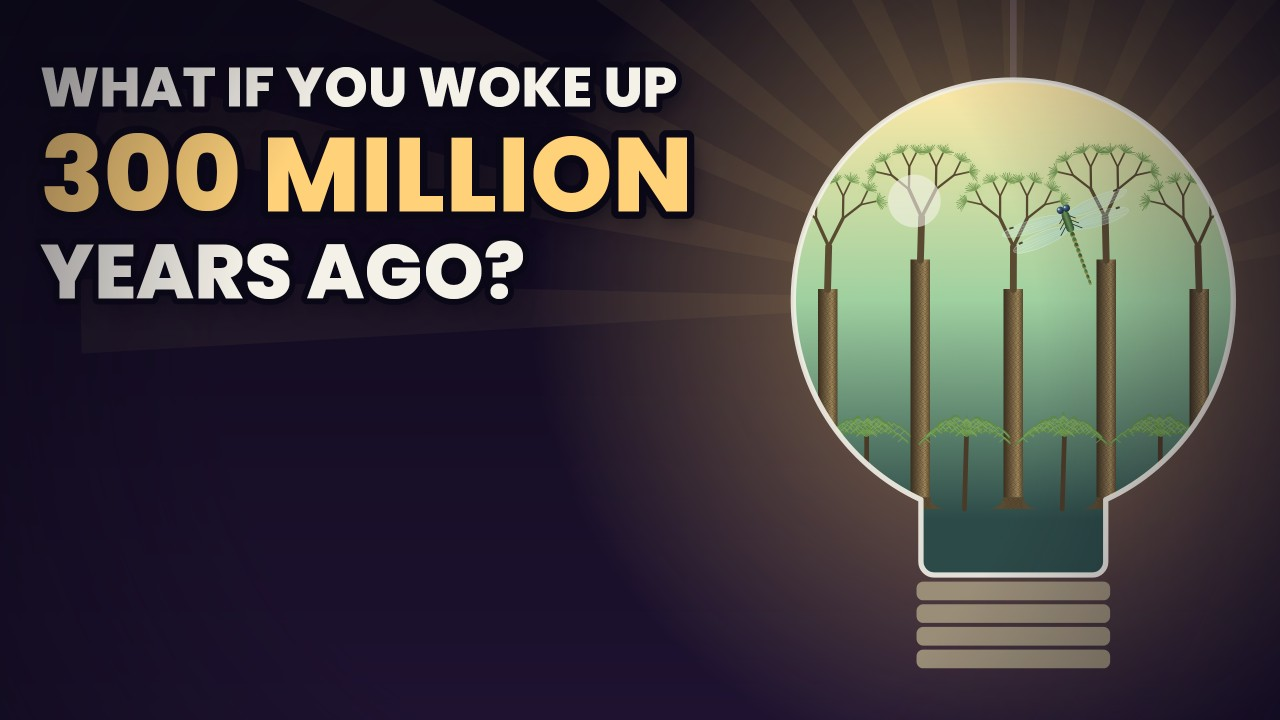
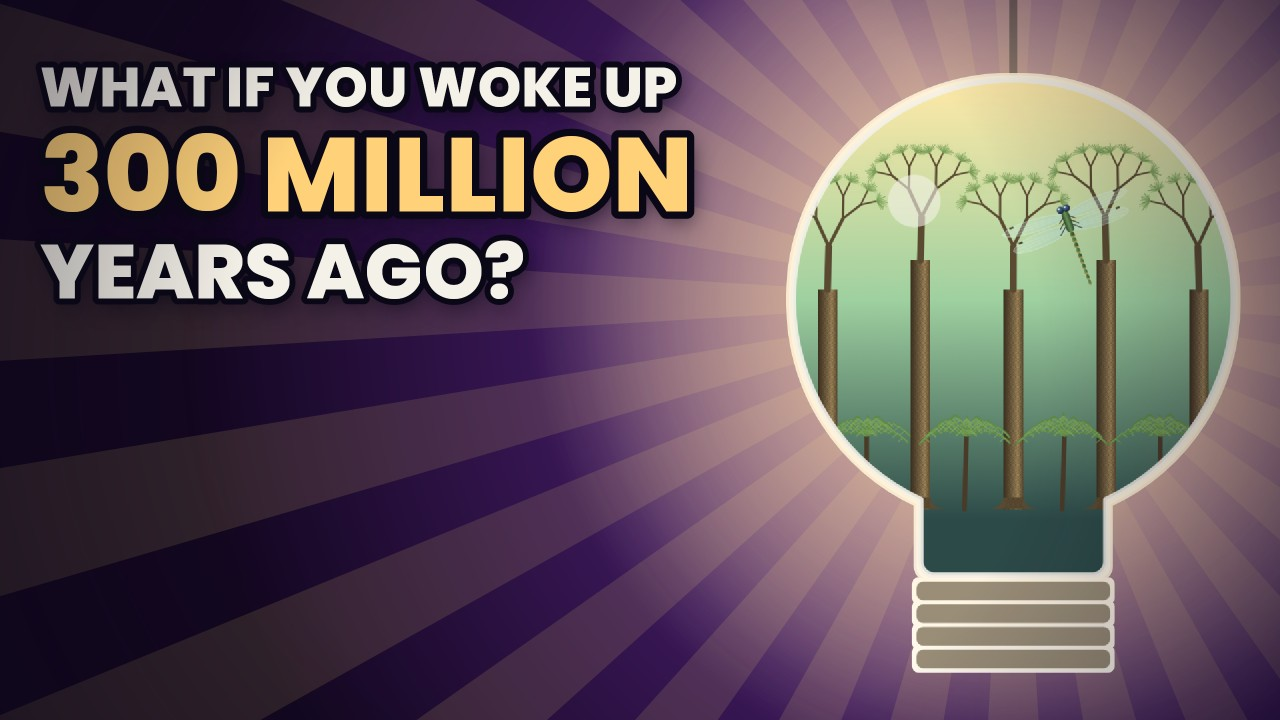
Thumbnails v3: thumbnail-style bold backgrounds, light burst, sticker outlines
Claude-Session: https://claude.ai/code/session_01WCp4uQYTUmYEbUCUwohxpo

diff --git a/runs/woke-up-300-million-years-ago/video/thumbs3.py b/runs/woke-up-300-million-years-ago/video/thumbs3.py
@@ -1,0 +1,98 @@
+"""Thumbnails v3: thumbnail-style backgrounds (bold gradient, light burst, sticker outline). No KR; text = title."""
+import os, math, skia
+from art import *  # noqa
+from art import W, H
+import thumbs2 as T2
+OUT = T2.OUT
+T0 = 1.3
+
+
+def radial_bg(c, cx, cy, inner, outer, r=1300):
+    sh = skia.GradientShader.MakeRadial(skia.Point(cx, cy), r, [col(inner), col(outer)], [0.0, 1.0])
+    c.drawRect(skia.Rect(0, 0, W, H), skia.Paint(Shader=sh))
+
+
+def burst(c, cx, cy, color, n=24, a=0.18, L=1800):
+    for i in range(n):
+        ang = 2 * math.pi * i / n
+        p = skia.Path(); p.moveTo(cx, cy)
+        p.lineTo(cx + math.cos(ang - 0.06) * L, cy + math.sin(ang - 0.06) * L)
+        p.lineTo(cx + math.cos(ang + 0.06) * L, cy + math.sin(ang + 0.06) * L); p.close()
+        c.drawPath(p, paint(color, a))
+
+
+def sticker(c, draw, outline="white", r=9, glow_col=None):
+    """draw() paints the hero on a transparent layer; we add a solid outline + optional glow behind it."""
+    S = skia.Surface(W, H); cc = S.getCanvas(); cc.clear(skia.Color(0, 0, 0, 0)); draw(cc)
+    img = S.makeImageSnapshot()
+    if glow_col:
+        p = skia.Paint(); p.setImageFilter(skia.ImageFilters.Blur(40, 40, skia.TileMode.kDecal, skia.ImageFilters.ColorFilter(
+            skia.ColorFilters.Blend(col(glow_col), skia.BlendMode.kSrcIn), None)))
+        p.setAlphaf(0.9); c.drawImage(img, 0, 0, skia.SamplingOptions(), p)
+    p = skia.Paint(); p.setImageFilter(skia.ImageFilters.Dilate(r, r, skia.ImageFilters.ColorFilter(
+        skia.ColorFilters.Blend(col(outline), skia.BlendMode.kSrcIn), None)))
+    c.drawImage(img, 0, 0, skia.SamplingOptions(), p)
+    c.drawImage(img, 0, 0)
+
+
+def tree_silhouettes(c, color, a=1.0, side_only=True):
+    for i, (x, h, w) in enumerate([(-30, 980, 120), (150, 820, 80), (1810, 1000, 130), (1650, 760, 70)]):
+        p = paint(color, a)
+        c.drawRect(skia.Rect(x - w / 2, H - h, x + w / 2, H), p)
+        cx, top = x, H - h
+        for k in range(9):
+            ang = math.pi / 2 + (k - 4) * 0.28
+            c.drawLine(cx, top, cx + math.cos(ang) * 230, top - math.sin(ang) * 170, paint(color, a, stroke=16))
+
+
+def thumb_a(c):
+    """Giant dragonfly, bright burst, cool teal bg vs warm gold subject glow."""
+    radial_bg(c, 1450, 430, "#2FB7A5", "#06202A", 1250)
+    burst(c, 1450, 430, "#E9FFF6", 26, 0.10)
+    glow(c, 1450, 430, 520, "#FFF3C4", 0.55)
+    tree_silhouettes(c, "#04161C", 0.9)
+    sticker(c, lambda cc: dragonfly(cc, 1450, 360, 1.6, 0.37, ang=-6), "white", 3, "gold")
+    sticker(c, lambda cc: T2.person(cc, 1170, 1060, 330, "stand", "#04161C"), "white", 5)
+    T2.title_block(c)
+    vignette(c, W, H, 0.45)
+
+
+def thumb_b(c):
+    """Movie-poster scale: tiny person, towering black trees, orange sunset burst."""
+    radial_bg(c, 1450, 520, "#FFB347", "#5A0F2E", 1300)
+    burst(c, 1450, 520, "#FFE8B0", 22, 0.12)
+    glow(c, 1450, 560, 360, "#FFF1C8", 0.8)
+    for i, (x, h, w) in enumerate([(1030, 700, 60), (1240, 560, 40), (1720, 720, 70), (1890, 600, 50), (1560, 470, 28)]):
+        lycopsid(c, x, H + 5, h, w, T0, i + 30)
+        c.drawRect(skia.Rect(x - w * 1.4, 0, x + w * 1.4, H), paint("#1A0710", 0.0))
+    c.drawRect(skia.Rect(860, 0, W, H), paint("#1A0710", 0.0))
+    # turn the trees into silhouettes by overpainting them dark (keep the bright sky)
+    S = skia.Surface(W, H); cc = S.getCanvas(); cc.clear(skia.Color(0, 0, 0, 0))
+    for i, (x, h, w) in enumerate([(1030, 700, 60), (1240, 560, 40), (1720, 720, 70), (1890, 600, 50), (1560, 470, 28)]):
+        lycopsid(cc, x, H + 5, h, w, T0, i + 30)
+    p = skia.Paint(); p.setColorFilter(skia.ColorFilters.Blend(col("#1A0710"), skia.BlendMode.kSrcIn))
+    c.drawImage(S.makeImageSnapshot(), 0, 0, skia.SamplingOptions(), p)
+    c.drawRect(skia.Rect(0, 990, W, H), paint("#1A0710"))
+    sticker(c, lambda cc: dragonfly(cc, 1450, 300, 1.1, 0.4, ang=8), "white", 3, "gold")
+    sticker(c, lambda cc: T2.person(cc, 1450, 995, 170, "stand", "#1A0710"), "#FFE8B0", 4)
+    T2.title_block(c)
+    vignette(c, W, H, 0.4)
+
+
+def thumb_c(c):
+    """Glowing bulb with the forest inside, purple bg + yellow burst."""
+    radial_bg(c, 1520, 450, "#6A2C9A", "#12061F", 1250)
+    burst(c, 1520, 450, "#FFE27A", 28, 0.13)
+    glow(c, 1520, 450, 650, "#FFD27A", 0.55)
+    c.drawLine(1520, 0, 1520, 120, paint("#12061F", stroke=12))
+    import thumbs as T1
+    sticker(c, lambda cc: T1.bulb_forest(cc, 1520, 450, 330), "white", 7)
+    T2.title_block(c)
+    vignette(c, W, H, 0.45)
+
+
+if __name__ == "__main__":
+    import thumbs as T1
+    ps = [T2.render(thumb_a, "THUMB_A.jpg"), T2.render(thumb_b, "THUMB_B.jpg"), T2.render(thumb_c, "THUMB_C.jpg")]
+    T1.sheet(ps)
+    for p in ps: print(p, os.path.getsize(p))
